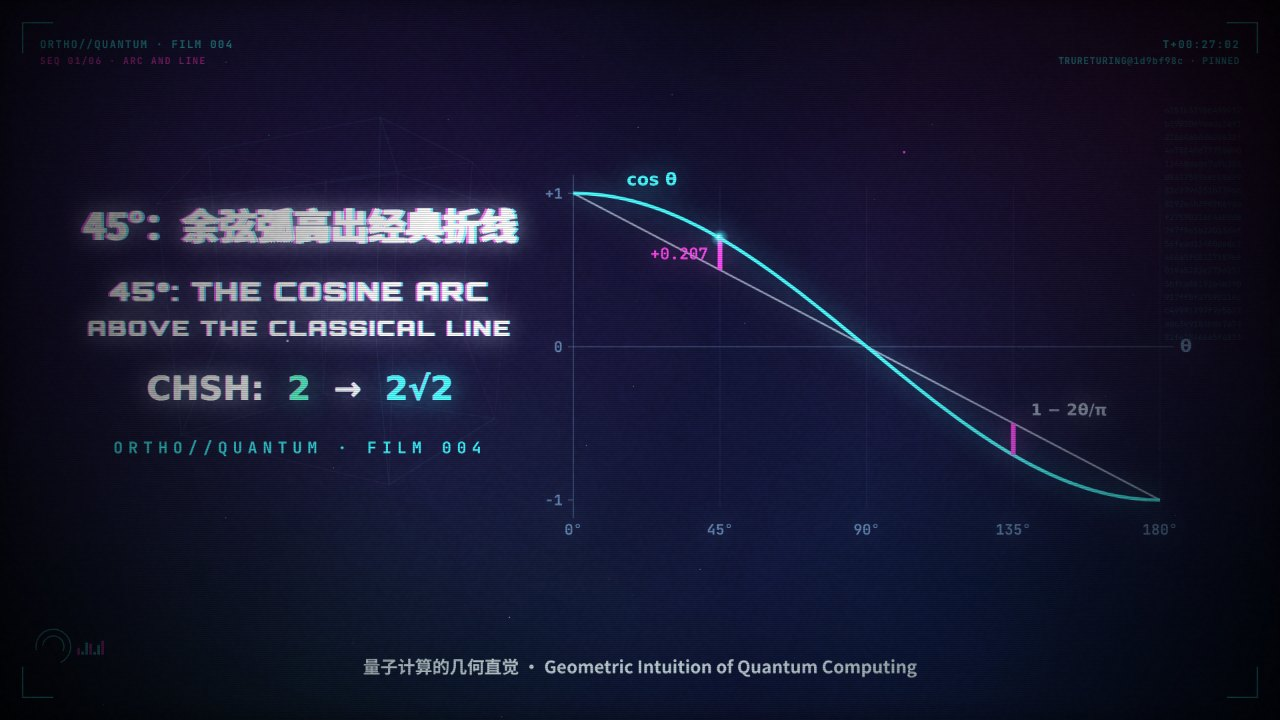
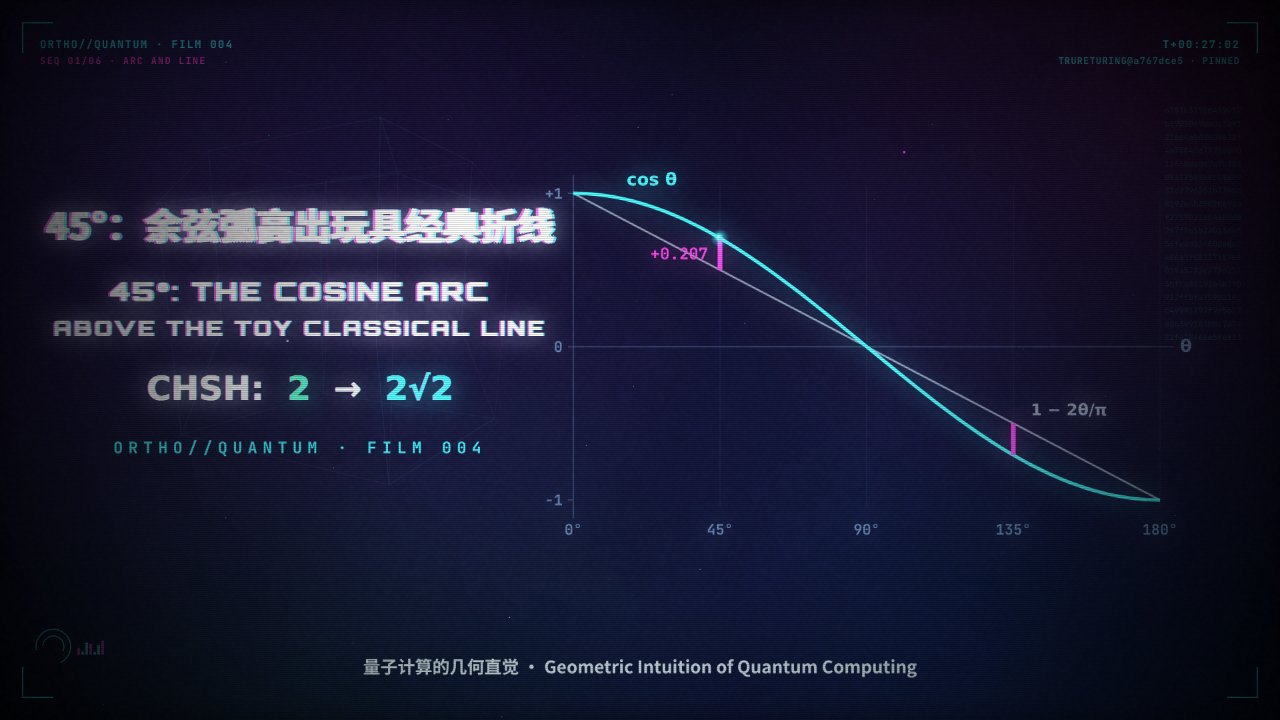
film 004: call the line the toy classical line in the title and poster

Changed region(s): [[0.0312, 0.275, 0.4375, 0.3667], [0.0312, 0.4278, 0.4375, 0.4889]]

diff --git a/books/quantum-geometry/films/004-chsh-45-degrees/scenes.js b/books/quantum-geometry/films/004-chsh-45-degrees/scenes.js
@@ -1,4 +1,4 @@
-/* Film 004 · 45°: the cosine arc above the classical line · 45°：余弦弧高出经典折线
+/* Film 004 · 45°: the cosine arc above the toy classical line · 45°：余弦弧高出玩具经典折线
    (book quantum-geometry, part IV: chapter 13). Scenes for theme/film/engine.js.
 
    Directions live in the (Z, X) plane, measured from Z towards X: n(t) = cos t · Z + sin t · X. Alice is drawn
@@ -242,7 +242,7 @@ function cdTitle(S) {
   const p = clamp(u / 1.3);
   txt(`${DATA.book.code} · FILM ${DATA.film.number}`, W / 2, 330, { size: 26, fam: F.mono, w: 700, align: 'center', c: C.cyan, a: ta, ls: 10 });
   txt(DATA.film.title_zh, W / 2, 480, { size: 92, fam: F.zh, w: 900, align: 'center', c: C.white, a: ta * clamp(p * 1.6), ab: 4 });
-  txt(scramble('45°: THE COSINE ARC ABOVE THE CLASSICAL LINE', p, 5), W / 2, 580, { size: 40, fam: F.orb, w: 900, align: 'center', c: C.white, a: ta, ls: 5, ab: 2 });
+  txt(scramble('45°: THE COSINE ARC ABOVE THE TOY CLASSICAL LINE', p, 5), W / 2, 580, { size: 40, fam: F.orb, w: 900, align: 'center', c: C.white, a: ta, ls: 5, ab: 2 });
   txt('ARC · FOUR PAIRS · TURN · TABLES · CEILING', W / 2, 660, { size: 22, fam: F.mono, w: 700, align: 'center', c: C.mag, a: ta * 0.9, ls: 8 });
 }
 
@@ -603,7 +603,7 @@ FILM.poster = () => {
   txt('1 − 2θ/π', apX(2.45), apY(cdToy(2.45)) - 26, { size: 24, fam: F.math, w: 700, c: C.white, a: 0.6 });
   txt(DATA.film.title_zh, 450, 360, { size: 56, fam: F.zh, w: 900, align: 'center', c: C.white, ab: 4 });
   txt('45°: THE COSINE ARC', 450, 452, { size: 40, fam: F.orb, w: 900, align: 'center', c: C.white, ab: 3, ls: 4 });
-  txt('ABOVE THE CLASSICAL LINE', 450, 504, { size: 32, fam: F.orb, w: 900, align: 'center', c: C.white, ab: 2, ls: 4 });
+  txt('ABOVE THE TOY CLASSICAL LINE', 450, 504, { size: 32, fam: F.orb, w: 900, align: 'center', c: C.white, ab: 2, ls: 4 });
   cdRich([['CHSH:  ', C.white], ['2', C.lean], ['  →  ', C.white], ['2√2', C.cyan]], 450, 600, { size: 50, align: 'center', ab: 1 });
   bloom(0.6);
   txt(`${DATA.book.code} · FILM ${DATA.film.number}`, 450, 680, { size: 24, fam: F.mono, w: 700, align: 'center', c: C.cyan, ls: 8 });
